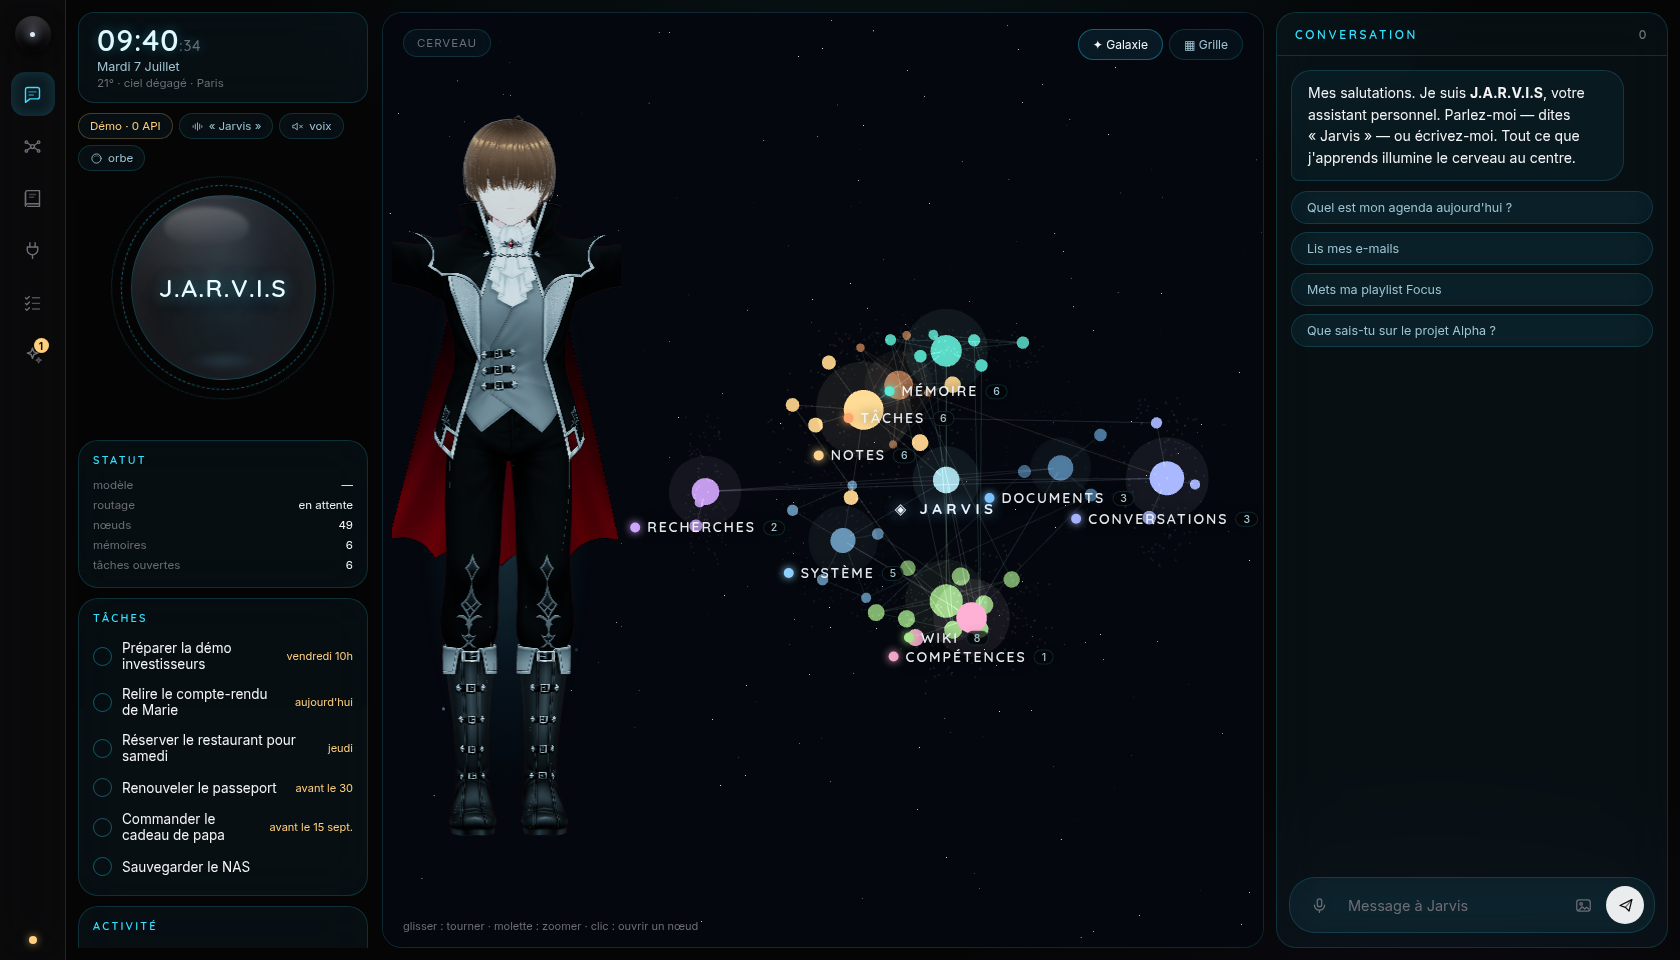
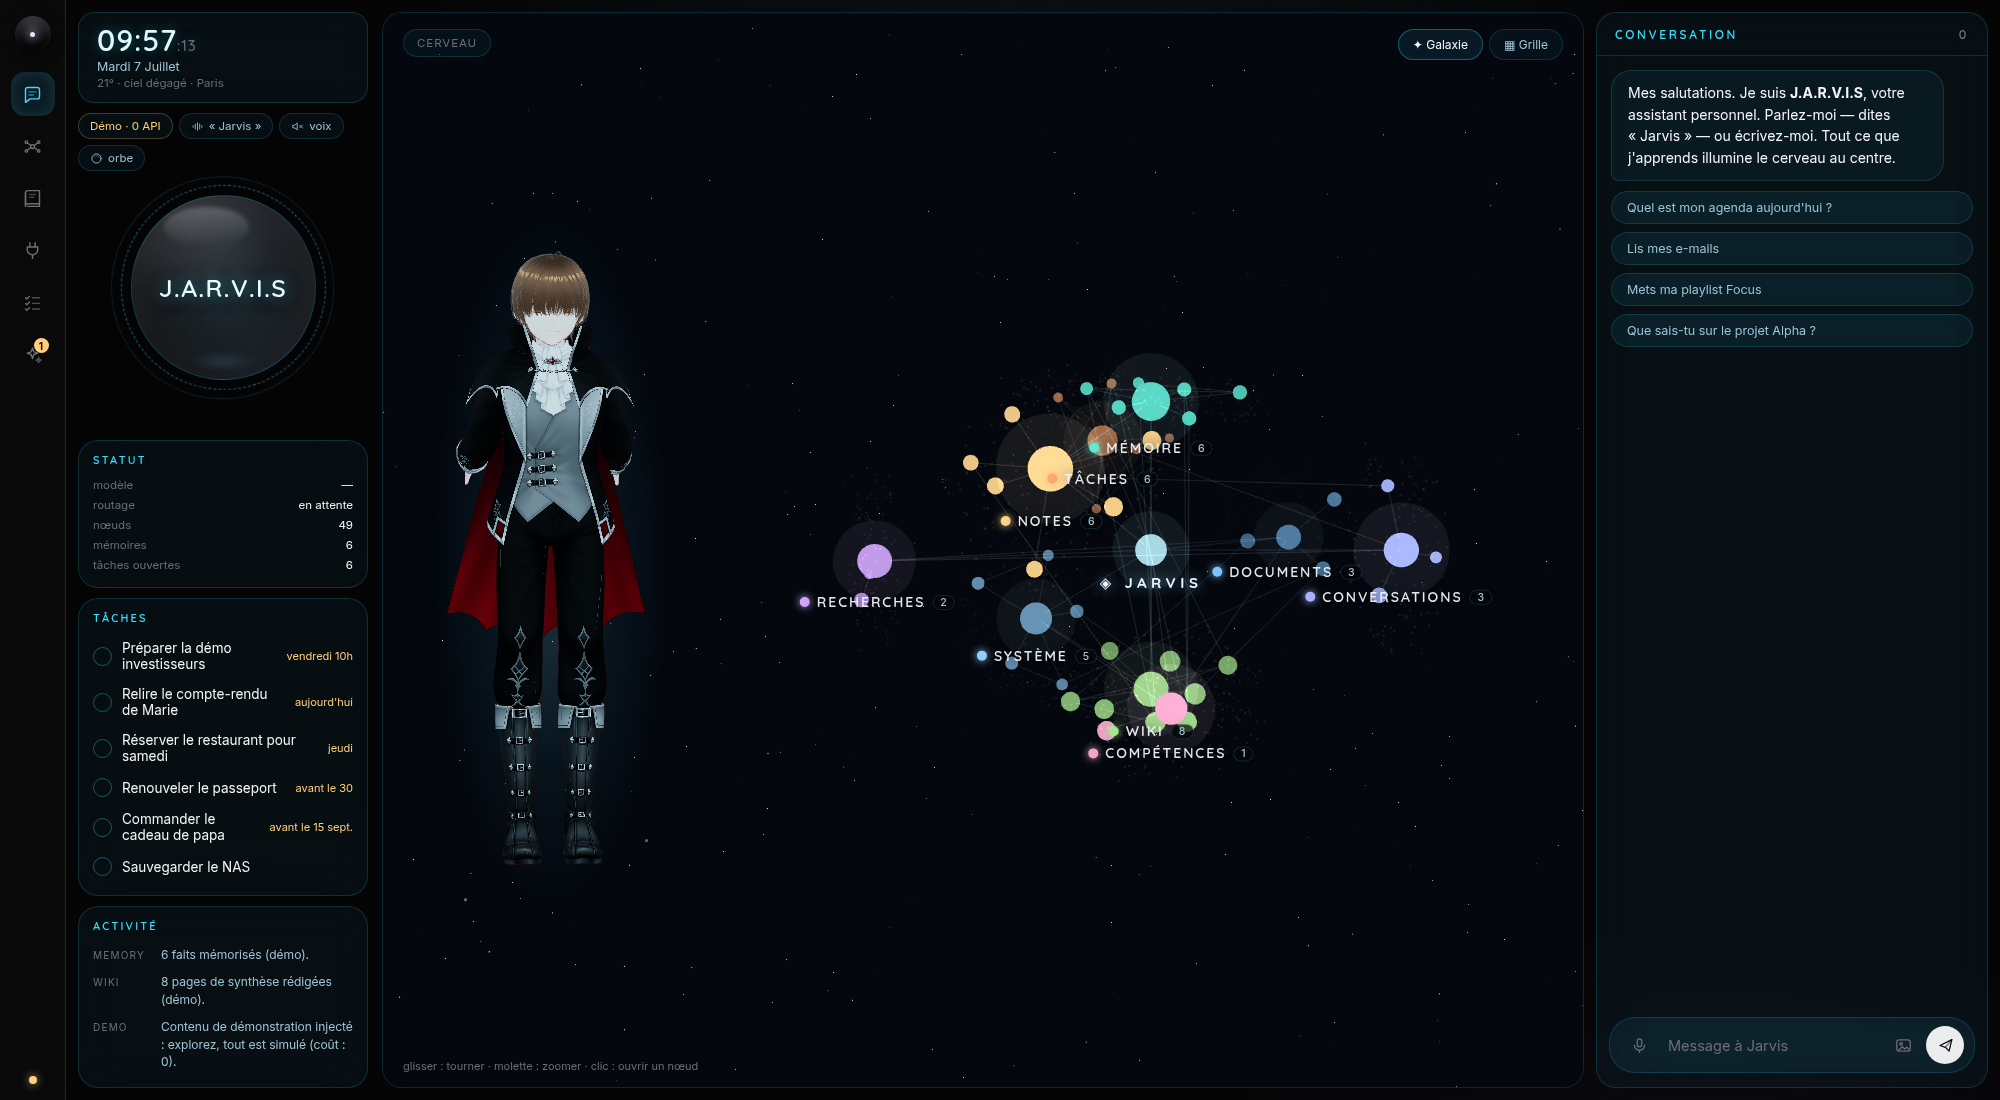
Pose mains derrière le dos + cadrage largeur : rien n'est plus coupé
- poseArms : les VRM sont livrés en T-pose ; bras baissés le long du
  corps, coudes repliés vers l'arrière — mains croisées derrière le dos
  (référence fournie), avec un balancement discret des épaules.
- AutoFrame : le recul caméra prend désormais aussi la largeur en compte
  (boîte englobante calculée pose appliquée) — les mains ne sont plus
  coupées par le bord gauche, quel que soit le format du panneau.

Claude-Session: https://claude.ai/code/session_01Lj7BJbD7f8hzQhmv1gKSEk

diff --git a/client/src/components/Avatar3D.tsx b/client/src/components/Avatar3D.tsx
@@ -1,5 +1,5 @@
 import { useEffect, useRef, useState } from "react";
-import { Canvas, useFrame } from "@react-three/fiber";
+import { Canvas, useFrame, useThree } from "@react-three/fiber";
 import * as THREE from "three";
 import { GLTFLoader } from "three/examples/jsm/loaders/GLTFLoader.js";
 import { VRMLoaderPlugin, VRMUtils, type VRM } from "@pixiv/three-vrm";
@@ -22,6 +22,32 @@ import { useJarvis } from "../state";
  */
 
 type Variant = "bust" | "space";
+
+/**
+ * Pose de repos : bras baissés, mains croisées derrière le dos (les VRM
+ * sont livrés en T-pose, bras à l'horizontale). Appliquée à chaque image
+ * avec un léger balancement pour rester vivante.
+ */
+function poseArms(vrm: VRM, t: number) {
+  const h = vrm.humanoid;
+  if (!h) return;
+  const sway = Math.sin(t * 0.7) * 0.02;
+  const lu = h.getNormalizedBoneNode("leftUpperArm");
+  const ru = h.getNormalizedBoneNode("rightUpperArm");
+  const ll = h.getNormalizedBoneNode("leftLowerArm");
+  const rl = h.getNormalizedBoneNode("rightLowerArm");
+  if (lu) {
+    lu.rotation.z = -1.32 - sway;
+    lu.rotation.x = 0.3;
+  }
+  if (ru) {
+    ru.rotation.z = 1.32 + sway;
+    ru.rotation.x = 0.3;
+  }
+  // coudes pliés : les avant-bras se replient derrière le dos
+  if (ll) ll.rotation.y = 1.2;
+  if (rl) rl.rotation.y = -1.2;
+}
 
 function VrmActor({ vrm, float = false }: { vrm: VRM; float?: boolean }) {
   const orbState = useJarvis((s) => s.orbState);
@@ -53,6 +79,9 @@ function VrmActor({ vrm, float = false }: { vrm: VRM; float?: boolean }) {
       chest.rotation.x = Math.sin(t * 1.4) * 0.012;
       chest.rotation.z = Math.sin(t * 0.6) * 0.008;
     }
+
+    /* mains derrière le dos, avec un balancement discret */
+    poseArms(vrm, t);
 
     /* tête : écoute → inclinée vers vous ; réflexion → regard en l'air */
     const head = humanoid?.getNormalizedBoneNode("head");
@@ -115,10 +144,29 @@ function Scene({ vrm, float = false }: { vrm: VRM; float?: boolean }) {
 interface Framing {
   eyeY: number; // hauteur des yeux (plan buste)
   centerY: number; // centre du corps (plan en pied)
-  dist: number; // recul caméra pour cadrer le corps entier
+  height: number; // hauteur totale du modèle
+  halfX: number; // demi-largeur du modèle (pose appliquée)
 }
 
 const SPACE_FOV = 26;
+
+/**
+ * Recul automatique de la caméra : le corps entier tient dans le cadre,
+ * en hauteur ET en largeur (rien n'est jamais coupé, quelle que soit la
+ * taille du panneau).
+ */
+function AutoFrame({ framing }: { framing: Framing }) {
+  const { camera, size } = useThree();
+  useEffect(() => {
+    const cam = camera as THREE.PerspectiveCamera;
+    const halfFov = (SPACE_FOV / 2) * (Math.PI / 180);
+    const vDist = (framing.height * 0.62) / Math.tan(halfFov);
+    const hDist = framing.halfX / (Math.tan(halfFov) * (size.width / Math.max(size.height, 1)));
+    cam.position.set(0, framing.centerY, Math.max(vDist, hDist));
+    cam.lookAt(0, framing.centerY, 0);
+  }, [camera, size.width, size.height, framing]);
+  return null;
+}
 
 export default function Avatar3D({
   size = 200,
@@ -133,7 +181,7 @@ export default function Avatar3D({
 }) {
   const orbState = useJarvis((s) => s.orbState);
   const [vrm, setVrm] = useState<VRM | null>(null);
-  const [framing, setFraming] = useState<Framing>({ eyeY: 1.42, centerY: 0.85, dist: 4.4 });
+  const [framing, setFraming] = useState<Framing>({ eyeY: 1.42, centerY: 0.85, height: 1.7, halfX: 0.5 });
 
   useEffect(() => {
     let disposed = false;
@@ -154,7 +202,10 @@ export default function Avatar3D({
           o.frustumCulled = false;
         });
         // Cadrage automatique, quelle que soit la taille du modèle :
-        // position réelle de l'os de la tête + boîte englobante du corps.
+        // pose appliquée d'abord (bras derrière le dos, sinon la T-pose
+        // fausse la largeur), puis os de la tête + boîte englobante.
+        poseArms(loaded, 0);
+        loaded.update(0);
         loaded.scene.updateMatrixWorld(true);
         const head = loaded.humanoid?.getNormalizedBoneNode("head");
         const headPos = new THREE.Vector3();
@@ -164,7 +215,8 @@ export default function Avatar3D({
         setFraming({
           eyeY: head ? headPos.y + 0.02 : height * 0.88,
           centerY: (box.max.y + box.min.y) / 2,
-          dist: (height * 0.62) / Math.tan((SPACE_FOV / 2) * (Math.PI / 180)),
+          height,
+          halfX: Math.max(Math.abs(box.min.x), Math.abs(box.max.x)) * 1.22 + 0.04,
         });
         setVrm(loaded);
       },
@@ -195,10 +247,10 @@ export default function Avatar3D({
         <div className="space-glow inner" />
         <Canvas
           gl={{ alpha: true, antialias: true }}
-          camera={{ position: [0, framing.centerY, framing.dist], fov: SPACE_FOV }}
-          onCreated={({ camera }) => camera.lookAt(0, framing.centerY, 0)}
+          camera={{ position: [0, framing.centerY, 4.4], fov: SPACE_FOV }}
           dpr={[1, 2]}
         >
+          <AutoFrame framing={framing} />
           <Scene vrm={vrm} float />
         </Canvas>
         <span className="holo-particle p1" />
